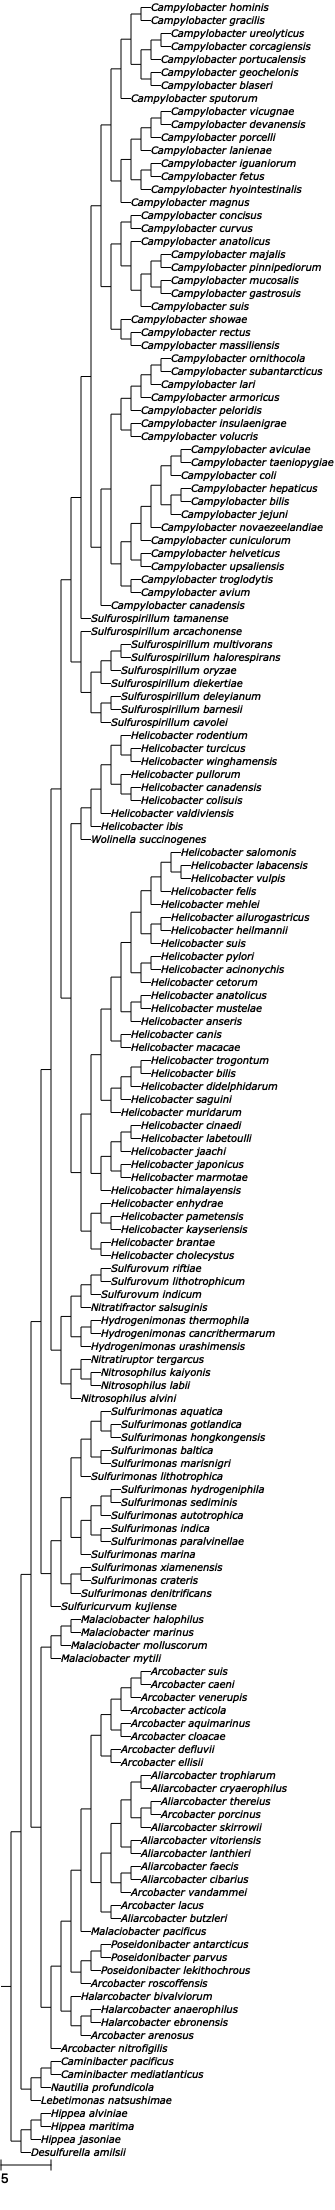
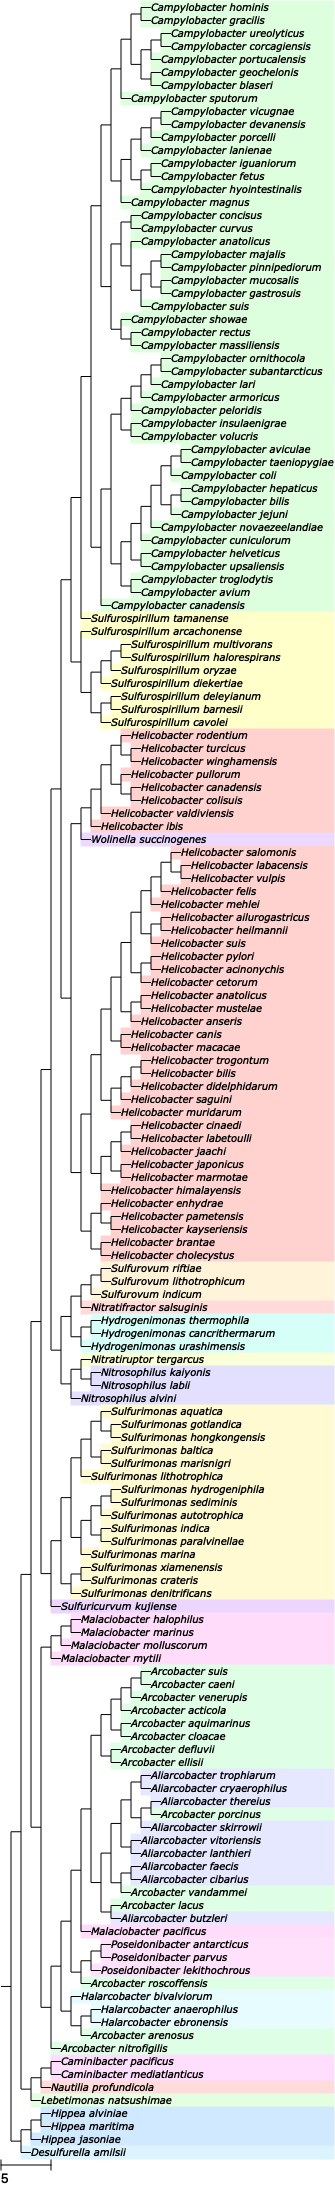
fixing

diff --git a/helpers.py b/helpers.py
@@ -3,22 +3,16 @@
 from Bio import SeqIO
 import matplotlib.pyplot as plt
 import os
-from ete3 import Tree
+from ete3 import Tree, NodeStyle
 import random
 
 def get_organism_from_fasta(fasta_path):
     record = next(SeqIO.parse(fasta_path, "fasta"))
     description = record.description
-
     parts = description.split(" ", 1)
 
     if len(parts) > 1:
         name_part = parts[1].split(",")
-
-        # name_part = name_part.split(" chromosome")[0]
-        # name_part = name_part.split(" complete genome")[0]
-
-        # return name_part.replace(" ", "_")
         just_name = name_part[0].split(" ")
         genus = just_name[0]
         species = just_name[1].lower()
@@ -26,13 +20,61 @@ def get_organism_from_fasta(fasta_path):
         if genus == "Candidatus" and len(just_name) > 2:
             genus = species.capitalize()
             species = just_name[2]
-            print(f"{genus} {species}")
             return f"{genus} {species}"
 
         return f"{genus} {species}"
-        # return name_part[0].replace(" ", "_")
-
     return "Unknown"
+
+def colour_tree_by_species(tree):
+    for leaf in tree.iter_leaves():
+        nstyle = NodeStyle()
+        nstyle["size"] = 0
+        if leaf.name.startswith("Helicobacter"):
+            nstyle["bgcolor"] = "#ffd2d0"
+        elif leaf.name.startswith("Campylobacter"):
+            nstyle["bgcolor"] = "#ddffdd"
+        elif leaf.name.startswith("Sulfurimonas"):
+            nstyle["bgcolor"] = "#fffad1"
+        elif leaf.name.startswith("Wolinella"):
+            nstyle["bgcolor"] = "#edd9ff"
+        elif leaf.name.startswith("Hippea"):
+            nstyle["bgcolor"] = "#d0e9ff"
+        elif leaf.name.startswith("Sulfuricurvum"):
+            nstyle["bgcolor"] = "#ecd5ff"
+        elif leaf.name.startswith("Candidatus"):
+            nstyle["bgcolor"] = "#d7ffeb"
+        elif leaf.name.startswith("Sulfurospirillum"):
+            nstyle["bgcolor"] = "#feffc9"
+        elif leaf.name.startswith("Hydrogenimonas"):
+            nstyle["bgcolor"] = "#d6fff8"
+        elif leaf.name.startswith("Nitrosophilus"):
+            nstyle["bgcolor"] = "#e2dfff"
+        elif leaf.name.startswith("Desulfurella"):
+            nstyle["bgcolor"] = "#dbf4ff"
+        elif leaf.name.startswith("Caminibacter"):
+            nstyle["bgcolor"] = "#ffdefd"
+        elif leaf.name.startswith("Nautilia"):
+            nstyle["bgcolor"] = "#ffdbdb"
+        elif leaf.name.startswith("Lebetimonas"):
+            nstyle["bgcolor"] = "#e4ffdf"
+        elif leaf.name.startswith("Nitratiruptor"):
+            nstyle["bgcolor"] = "#faffd8"
+        elif leaf.name.startswith("Sulfurovum"):
+            nstyle["bgcolor"] = "#fff4da"
+        elif leaf.name.startswith("Nitratifractor"):
+            nstyle["bgcolor"] = "#ffdbdb"
+        elif leaf.name.startswith("Arcobacter"):
+            nstyle["bgcolor"] = "#deffe5"
+        elif leaf.name.startswith("Aliarcobacter"):
+            nstyle["bgcolor"] = "#e5e8ff"
+        elif leaf.name.startswith("Malaciobacter"):
+            nstyle["bgcolor"] = "#ffdcf9"
+        elif leaf.name.startswith("Halarcobacter"):
+            nstyle["bgcolor"] = "#e6fcff"
+        elif leaf.name.startswith("Poseidonibacter"):
+            nstyle["bgcolor"] = "#ffe1fc"
+        leaf.set_style(nstyle)
+
 """
 Verify that pruning hasn't distorted phylogenetic relationships.
 Checks that pairwise distances between taxa are preserved.

diff --git a/gtdb_tree.py b/gtdb_tree.py
@@ -4,7 +4,7 @@ from ete3 import Tree, TextFace
 from ete3.treeview import TreeStyle, NodeStyle
 import subprocess
 from pathlib import Path
-from helpers import get_organism_from_fasta, validate_pruned_tree_integrity
+from helpers import get_organism_from_fasta, validate_pruned_tree_integrity, colour_tree_by_species
 
 results = []
 
@@ -80,6 +80,8 @@ nstyle["size"] = 0
 
 for node in tree.traverse():
     node.set_style(nstyle)
+
+colour_tree_by_species(tree)
 
 tree.render(str(output_dir / "gtdb_ref_tree.png"), tree_style=ts)
 